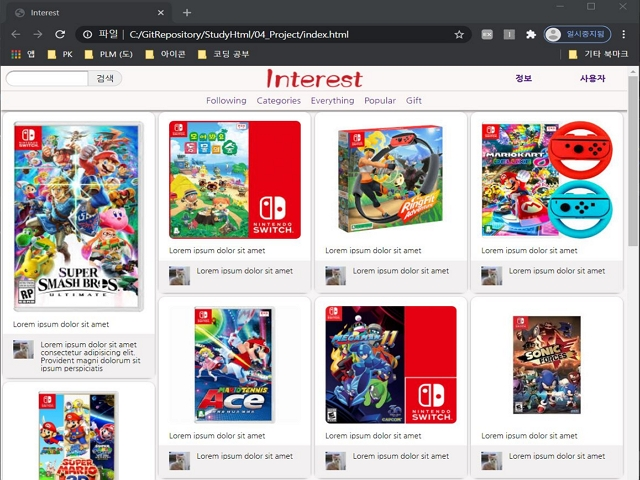
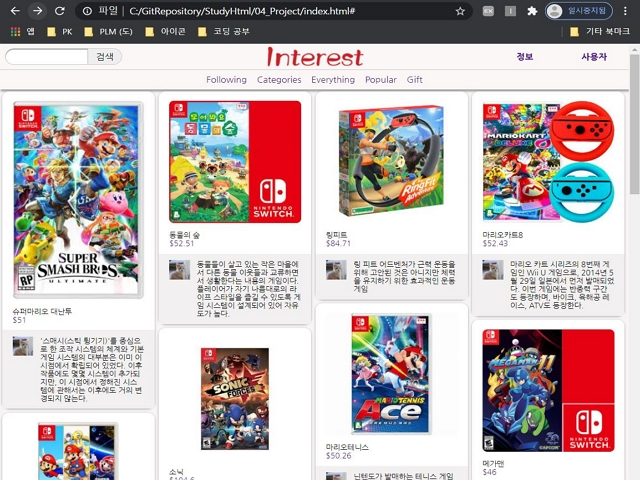
20210203_17_38

diff --git a/04_Project/index.html b/04_Project/index.html
@@ -7,9 +7,9 @@
     <title>Interest</title>
     <meta name='viewport' content='width=device-width, initial-scale=1'>
 
-    <link rel = "stylesheet" href="css/init.css">
-    <link rel = "stylesheet" href="css/form.css">
-    <link rel = "stylesheet" href="css/design.css">
+    <link rel="stylesheet" href="css/init.css">
+    <link rel="stylesheet" href="css/form.css">
+    <link rel="stylesheet" href="css/design.css">
 
     <script src="js/jquery-3.5.1.min.js"></script>
     <script src="js/masonry.pkgd.min.js"></script>
@@ -34,17 +34,23 @@
             });
 
             //lightbox
-            $(".paper").click(function () { showLightBox(); });
+            $(".paper").click(function () { showLightBox(this); });
             $("#darken-background").click(function () { hideLightBox() });
             //라이트박스이벤트 서포트 (사진영역을 눌러도 꺼지지 않게함)
             $("#lightbox").click(function (event) { event.stopPropagation() });
         });
         // 라이트박스보이기
-        function showLightBox() {
-            $("random_image").attr({
-                src: function(){
-                    var rnd_height = 500 + Math.floor(Math.random*600) + 10;
-                    return "https://placekitten.com/30/30" + rnd_height
+        //그리드내 이미지 클릭한 것으로 나오기
+        function showLightBox(obj) {
+            var img_src = obj.getElementsByTagName("img")[0].src;
+            // var txt_src = obj.getElementsById("#random_text")[0].value;
+            // $(this).appendTo("#random_text");
+            $("#random_image").attr({
+                src: function () {
+                    return img_src;
+                    // 램덤이미지
+                    // var rnd_height = 500 + Math.floor(Math.random * 600) + 10;
+                    // return "https://placekitten.com/30/30" + rnd_height
                 }
             });
             $("#darken-background").show();
@@ -111,241 +117,257 @@
             <div class="paper-holder">
                 <a><img width="190" src="images/nintendo/대난투.jpeg"></a>
             </div>
-            <p class="paper-description">Lorem ipsum dolor sit amet</p>
+            <p class="paper-description">슈퍼마리오 대난투<br><a href="http://prod.danawa.com/info/?pcode=6215762">$51</a></p>
             <div class="paper-content">
                 <a class="paper-link" href="#">
                     <img src="https://placekitten.com/30/30">
                 </a>
-                <p class="paper-text">Lorem ipsum dolor sit amet consectetur adipisicing elit. Provident magni dolorum
-                    sit ipsum perspiciatis</p>
+                <p class="paper-text">'스매시(스틱 튕기기)'를 중심으로 한 조작 시스템의 체계와 기본 게임 시스템의 대부분은 이미 이 시점에서 확립되어 있었다. 이후 작품에도 몇몇
+                    시스템이 추가되지만, 이 시점에서 정해진 시스템에 관해서는 이후에도 거의 변경되지 않는다.</p>
             </div>
         </div>
         <div class="paper">
             <div class="paper-holder">
                 <a><img width="190" src="images/nintendo/동물의숲.jpeg"></a>
             </div>
-            <p class="paper-description">Lorem ipsum dolor sit amet</p>
+            <p class="paper-description">동물의 숲<br><a href="http://prod.danawa.com/info/?pcode=6467428">$52.51</a></p>
             <div class="paper-content">
                 <a class="paper-link" href="#">
                     <img src="https://placekitten.com/30/30">
                 </a>
-                <p class="paper-text">Lorem ipsum dolor sit amet</p>
+                <p class="paper-text">동물들이 살고 있는 작은 마을에서 다른 동물 이웃들과 교류하면서 생활한다는 내용의 게임이다. 플레이어가 자기 나름대로의 라이프 스타일을 즐길 수
+                    있도록 게임 시스템이 설계되어 있어 자유도가 높다.</p>
             </div>
         </div>
         <div class="paper">
             <div class="paper-holder">
                 <a><img width="190" src="images/nintendo/링피트.jpeg"></a>
             </div>
-            <p class="paper-description">Lorem ipsum dolor sit amet</p>
+            <p class="paper-description">링피트<br><a href="http://prod.danawa.com/info/?pcode=9566103">$84.71</a></p>
             <div class="paper-content">
                 <a class="paper-link" href="#">
                     <img src="https://placekitten.com/30/30">
                 </a>
-                <p class="paper-text">Lorem ipsum dolor sit amet</p>
+                <p class="paper-text"> 링 피트 어드벤처가 근력 운동을 위해 고안된 것은 아니지만 체력을 유지하기 위한 효과적인 운동 게임</p>
             </div>
         </div>
         <div class="paper">
             <div class="paper-holder">
                 <a><img width="190" src="images/nintendo/마리오카트8.jpeg"></a>
             </div>
-            <p class="paper-description">Lorem ipsum dolor sit amet</p>
+            <p class="paper-description">마리오카트8<br><a href="http://prod.danawa.com/info/?pcode=5505387">$52.43</a></p>
             <div class="paper-content">
                 <a class="paper-link" href="#">
                     <img src="https://placekitten.com/30/30">
                 </a>
-                <p class="paper-text">Lorem ipsum dolor sit amet</p>
+                <p class="paper-text"> 마리오 카트 시리즈의 8번째 게임인 Wii U 게임으로, 2014년 5월 29일 일본에서 먼저 발매되었다. 이번 게임에는 반중력 구간도 등장하며,
+                    바이크, 육해공 레이스, ATV도 등장한다.</p>
             </div>
         </div>
         <div class="paper">
             <div class="paper-holder">
                 <a><img width="190" src="images/nintendo/마리오테니스.jpeg"></a>
             </div>
-            <p class="paper-description">Lorem ipsum dolor sit amet</p>
+            <p class="paper-description">마리오테니스<br><a href="http://prod.danawa.com/info/?pcode=5811638">$50.26</a></p>
             <div class="paper-content">
                 <a class="paper-link" href="#">
                     <img src="https://placekitten.com/30/30">
                 </a>
-                <p class="paper-text">Lorem ipsum dolor sit amet</p>
+                <p class="paper-text">닌텐도가 발매하는 테니스 게임이다. 마리오 시리즈에 등장하는 주요 캐릭터들이 테니스로 대결한다.</p>
             </div>
         </div>
         <div class="paper">
             <div class="paper-holder">
                 <a><img width="190" src="images/nintendo/메가맨.jpeg"></a>
             </div>
-            <p class="paper-description">Lorem ipsum dolor sit amet</p>
+            <p class="paper-description">메가맨<br><a href="http://prod.danawa.com/info/?pcode=11804941">$46</a></p>
             <div class="paper-content">
                 <a class="paper-link" href="#">
                     <img src="https://placekitten.com/30/30">
                 </a>
-                <p class="paper-text">Lorem ipsum dolor sit amet</p>
+                <p class="paper-text"> 로봇 전사 록맨을 주인공으로 하여 1987년 12월에 패밀리 컴퓨터로 발매된 록맨으로 시리즈가 시작됐으며,11번째 메가맨작품이다.</p>
             </div>
         </div>
         <div class="paper">
             <div class="paper-holder">
                 <a><img width="190" src="images/nintendo/소닉.jpeg"></a>
             </div>
-            <p class="paper-description">Lorem ipsum dolor sit amet</p>
+            <p class="paper-description">소닉<br><a href="http://prod.danawa.com/info/?pcode=5505327">$104.6</a></p>
             <div class="paper-content">
                 <a class="paper-link" href="#">
                     <img src="https://placekitten.com/30/30">
                 </a>
-                <p class="paper-text">Lorem ipsum dolor sit amet</p>
+                <p class="paper-text">비싼 게임?</p>
             </div>
         </div>
         <div class="paper">
             <div class="paper-holder">
                 <a><img width="190" src="images/nintendo/슈퍼마리오3D.jpeg"></a>
             </div>
-            <p class="paper-description">Lorem ipsum dolor sit amet</p>
+            <p class="paper-description">슈퍼마리오3D<br><a href="http://prod.danawa.com/info/?pcode=12199271">$50.75</a>
+            </p>
             <div class="paper-content">
                 <a class="paper-link" href="#">
                     <img src="https://placekitten.com/30/30">
                 </a>
-                <p class="paper-text">Lorem ipsum dolor sit amet</p>
+                <p class="paper-text">슈퍼마리오를 3D로 즐길 수 있다. 오딧세이를 더 추천한다.</p>
             </div>
         </div>
         <div class="paper">
             <div class="paper-holder">
                 <a><img width="190" src="images/nintendo/슈퍼마리오브라더스.jpeg"></a>
             </div>
-            <p class="paper-description">Lorem ipsum dolor sit amet</p>
+            <p class="paper-description">뉴슈퍼마리오브라더스<br><a
+                href="http://prod.danawa.com/info/?pcode=6467425">$51.99</a></p>
             <div class="paper-content">
                 <a class="paper-link" href="#">
                     <img src="https://placekitten.com/30/30">
                 </a>
-                <p class="paper-text">Lorem ipsum dolor sit amet</p>
+                <p class="paper-text">2019년 1월 30일에 발매한 닌텐도의 비디오 게임으로, Wii U로 발매된 뉴 슈퍼 마리오브라더스 U와 뉴 슈퍼 루이지 U의 합본이다.</p>
             </div>
         </div>
         <div class="paper">
             <div class="paper-holder">
                 <a><img width="190" src="images/nintendo/슈퍼마리오브라더스2.jpeg"></a>
             </div>
-            <p class="paper-description">Lorem ipsum dolor sit amet</p>
+            <p class="paper-description">뉴슈퍼마리오브라더스2<br><a
+                href="http://prod.danawa.com/info/?pcode=7236064">$51.99</a></p>
             <div class="paper-content">
                 <a class="paper-link" href="#">
                     <img src="https://placekitten.com/30/30">
                 </a>
-                <p class="paper-text">Lorem ipsum dolor sit amet</p>
+                <p class="paper-text">직접 맵을 만들고 다른 사람과 대전을 할 수 있다.</p>
             </div>
         </div>
         <div class="paper">
             <div class="paper-holder">
                 <a><img width="190" src="images/nintendo/슈퍼마리오오딧세이.jpeg"></a>
             </div>
-            <p class="paper-description">Lorem ipsum dolor sit amet</p>
+            <p class="paper-description">슈퍼마리오오딧세이<br><a
+                href="http://prod.danawa.com/info/?pcode=5505221">$50.26</a></p>
             <div class="paper-content">
                 <a class="paper-link" href="#">
                     <img src="https://placekitten.com/30/30">
                 </a>
-                <p class="paper-text">Lorem ipsum dolor sit amet</p>
+                <p class="paper-text">현재 슈퍼마리오 스위치게임 중 가장 추천작</p>
             </div>
         </div>
         <div class="paper">
             <div class="paper-holder">
                 <a><img width="190" src="images/nintendo/슈퍼마리오파티.jpeg"></a>
             </div>
-            <p class="paper-description">Lorem ipsum dolor sit amet</p>
+            <p class="paper-description">슈퍼마리오파티<br><a href="http://prod.danawa.com/info/?pcode=6215782">$58.96</a>
+            </p>
             <div class="paper-content">
                 <a class="paper-link" href="#">
                     <img src="https://placekitten.com/30/30">
                 </a>
-                <p class="paper-text">Lorem ipsum dolor sit amet</p>
+                <p class="paper-text">마리오 시리즈의 캐릭터가 등장하는 닌텐도의 파티 게임 비디오 게임 시리즈이다. 첫 작품인 마리오 파티부터 마리오 파티 8과 마리오 파티 DS까지는
+                    허드슨 소프트에서 개발하였으나, 마리오 파티 9부터는 Nd 큐브에서 개발하였다. 현재까지의 마지막 작품은 닌텐도 스위치용 슈퍼 마리오 파티이다.</p>
             </div>
         </div>
         <div class="paper">
             <div class="paper-holder">
                 <a><img width="190" src="images/nintendo/스플레툰2.jpeg"></a>
             </div>
-            <p class="paper-description">Lorem ipsum dolor sit amet</p>
+            <p class="paper-description">스플래툰2<br><a href="http://prod.danawa.com/info/?pcode=4943053">$51.57</a>
+            </p>
             <div class="paper-content">
                 <a class="paper-link" href="#">
                     <img src="https://placekitten.com/30/30">
                 </a>
-                <p class="paper-text">Lorem ipsum dolor sit amet</p>
+                <p class="paper-text">액션 총 게임으로 대전상대가 아닌 맵을 자신의 팀 색깔로 많이 색칠한 쪽이 이기는 게임이다.</p>
             </div>
         </div>
         <div class="paper">
             <div class="paper-holder">
                 <a><img width="190" src="images/nintendo/암즈.jpeg"></a>
             </div>
-            <p class="paper-description">Lorem ipsum dolor sit amet</p>
+            <p class="paper-description">암즈<br><a href="http://prod.danawa.com/info/?pcode=5707731">$54.72</a></p>
             <div class="paper-content">
                 <a class="paper-link" href="#">
                     <img src="https://placekitten.com/30/30">
                 </a>
-                <p class="paper-text">Lorem ipsum dolor sit amet</p>
+                <p class="paper-text">로봇 대전게임 중 수작으로 액션이 좋음</p>
             </div>
         </div>
         <div class="paper">
             <div class="paper-holder">
                 <a><img width="190" src="images/nintendo/젤다 야숨.jpeg"></a>
             </div>
-            <p class="paper-description">Lorem ipsum dolor sit amet</p>
+            <p class="paper-description">젤다 야생의 숨결<br><a
+                href="http://prod.danawa.com/info/?pcode=5525156">$58.67</a></p>
             <div class="paper-content">
                 <a class="paper-link" href="#">
                     <img src="https://placekitten.com/30/30">
                 </a>
-                <p class="paper-text">Lorem ipsum dolor sit amet</p>
+                <p class="paper-text">현 스위치 게임 중 추천 순위 1위</p>
             </div>
         </div>
         <div class="paper">
             <div class="paper-holder">
                 <a><img width="190" src="images/nintendo/젤다꿈섬.jpeg"></a>
             </div>
-            <p class="paper-description">Lorem ipsum dolor sit amet</p>
+            <p class="paper-description">젤다 꿈꾸는 섬<br><a href="http://prod.danawa.com/info/?pcode=7239259">$50.83</a>
+            </p>
             <div class="paper-content">
                 <a class="paper-link" href="#">
                     <img src="https://placekitten.com/30/30">
                 </a>
-                <p class="paper-text">Lorem ipsum dolor sit amet</p>
+                <p class="paper-text"> 2019년에는 닌텐도 다이렉트를 통해 닌텐도 스위치로 리메이크가 결정된 수작</p>
             </div>
         </div>
         <div class="paper">
             <div class="paper-holder">
                 <a><img width="190" src="images/nintendo/커비.jpeg"></a>
             </div>
-            <p class="paper-description">Lorem ipsum dolor sit amet</p>
+            <p class="paper-description">커비 파이터즈2<br><a
+                href="http://prod.danawa.com/info/?pcode=12770330">$18.18</a></p>
             <div class="paper-content">
                 <a class="paper-link" href="#">
                     <img src="https://placekitten.com/30/30">
                 </a>
-                <p class="paper-text">Lorem ipsum dolor sit amet</p>
+                <p class="paper-text">커비 캐릭터를 활용한 대전게임</p>
             </div>
         </div>
         <div class="paper">
             <div class="paper-holder">
                 <a><img width="190" src="images/nintendo/커비스타.jpeg"></a>
             </div>
-            <p class="paper-description">Lorem ipsum dolor sit amet</p>
+            <p class="paper-description">커비 스타얼라이즈<br><a
+                href="http://prod.danawa.com/info/?pcode=5707952">$52.72</a></p>
             <div class="paper-content">
                 <a class="paper-link" href="#">
                     <img src="https://placekitten.com/30/30">
                 </a>
-                <p class="paper-text">Lorem ipsum dolor sit amet</p>
+                <p class="paper-text"> HAL 연구소가 개발하고 닌텐도가 2018년에 발매한 닌텐도 스위치용 게임이다. 커비 시리즈 최초의 닌텐도 스위치용 소프트웨어이며, 커비 본편
+                    시리즈로는 《별의 커비 로보보 플래닛》 이후 2년만의 작품</p>
             </div>
         </div>
         <div class="paper">
             <div class="paper-holder">
                 <a><img width="190" src="images/nintendo/포켓몬스터.jpeg"></a>
             </div>
-            <p class="paper-description">Lorem ipsum dolor sit amet</p>
+            <p class="paper-description">포켓몬스터 소드&실드<br><a
+                href="http://prod.danawa.com/info/?pcode=11930437&keyword=%ED%8F%AC%EC%BC%93%EB%AA%AC">$25.89</a></p>
             <div class="paper-content">
                 <a class="paper-link" href="#">
                     <img src="https://placekitten.com/30/30">
                 </a>
-                <p class="paper-text">Lorem ipsum dolor sit amet</p>
+                <p class="paper-text">포켓몬스터 소드와 실드 확장판</p>
             </div>
         </div>
         <div class="paper">
             <div class="paper-holder">
                 <a><img width="190" src="images/nintendo/피파.jpeg"></a>
             </div>
-            <p class="paper-description">Lorem ipsum dolor sit amet</p>
+            <p class="paper-description">피파2021<br><a
+                href="http://prod.danawa.com/info/?pcode=12287384&relationMenuType=category">$52.30</a></p>
             <div class="paper-content">
                 <a class="paper-link" href="#">
                     <img src="https://placekitten.com/30/30">
                 </a>
-                <p class="paper-text">Lorem ipsum dolor sit amet</p>
+                <p class="paper-text">축구게임이다.</p>
             </div>
         </div>
         <!-- .paper 끝 -->
@@ -358,11 +380,11 @@
                 </a>
                 <div class="user-information-text">
                     <h3>User</h3>
-                    <p>Lorem ipsum dolor sit amet</p>
+                    <p id="random_text">바꿔보자</p>
                 </div>
             </div>
             <hr class="lightbox-splitter">
-            <img id="random_image" src="images/cat02.jpg">
+            <img id="random_image" src="#" width="600">
         </div>
     </div>
     <footer id="main-footer"></footer>
